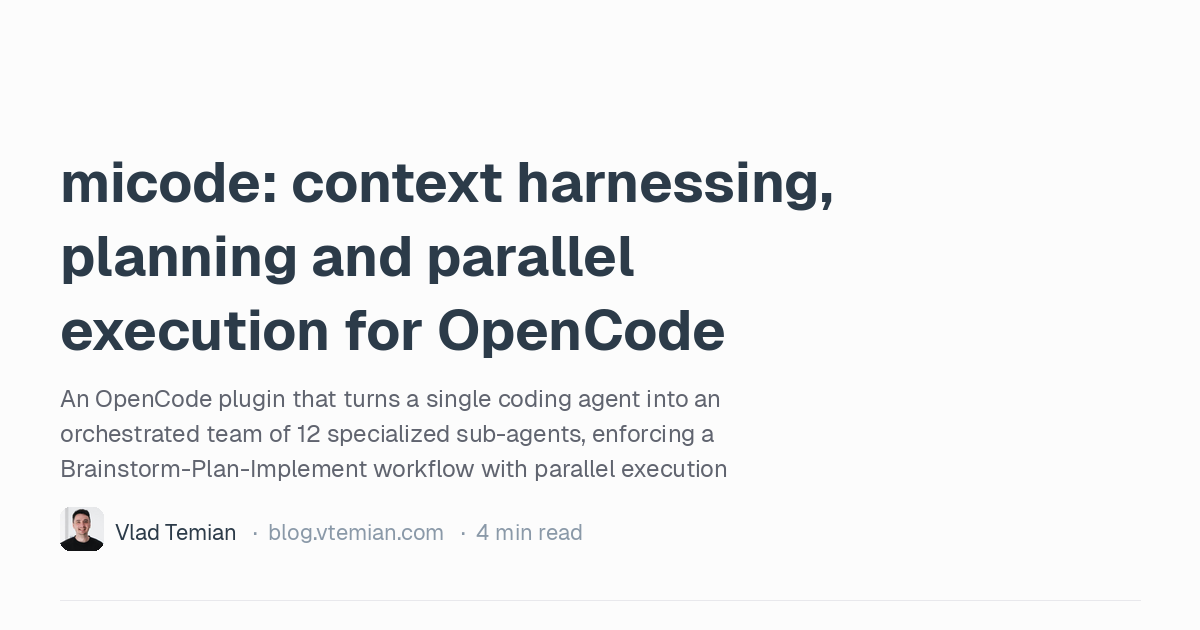
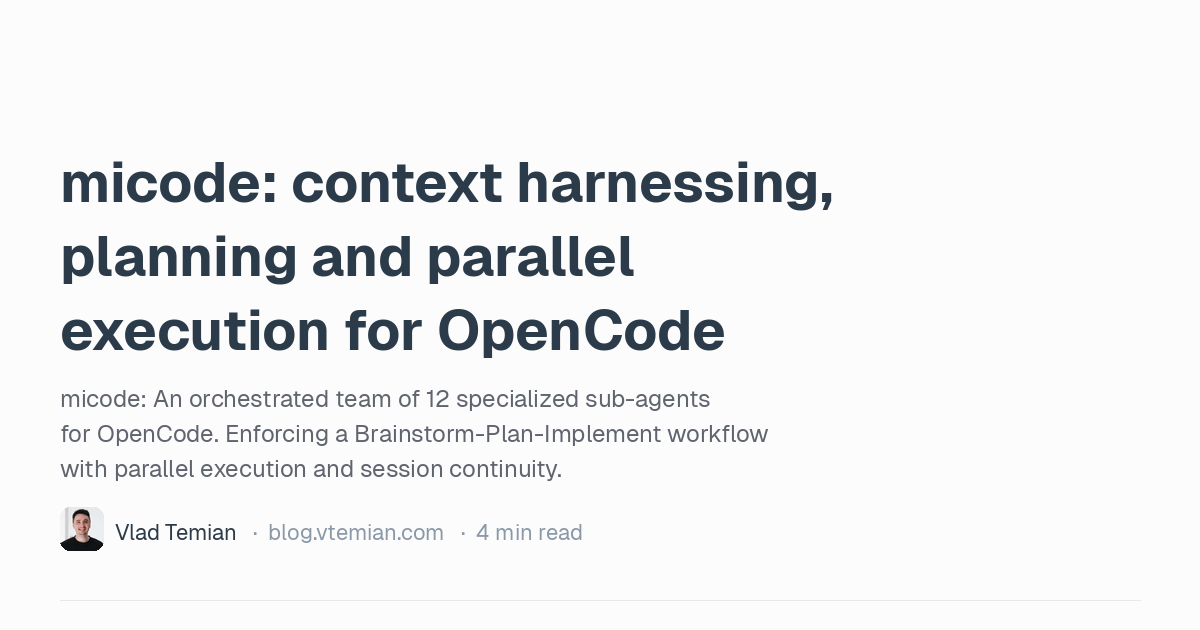
deploy: b8b58021b95f04f14dc3bfe127204afca52f9d11

Changed region(s): [[0.0308, 0.6032, 0.6475, 0.754]]

diff --git a/project/micode/index.html b/project/micode/index.html
@@ -1,6 +1,6 @@
-<!doctype html><html lang=en><head><script>localStorage.getItem("theme")==="dark"&&document.documentElement.classList.add("dark")</script><meta http-equiv=X-UA-Compatible content="IE=edge"><meta name=viewport content="width=device-width,minimum-scale=1"><link rel=preconnect href=https://cdn.jsdelivr.net crossorigin><link rel=stylesheet href=https://cdn.jsdelivr.net/npm/geist@1/dist/fonts/geist-sans/style.css><link rel=stylesheet href=https://cdn.jsdelivr.net/npm/geist@1/dist/fonts/geist-mono/style.css><link rel=stylesheet href=//cdnjs.cloudflare.com/ajax/libs/highlight.js/11.9.0/styles/nord.min.css><script src=//cdnjs.cloudflare.com/ajax/libs/highlight.js/11.9.0/highlight.min.js></script><script>hljs.highlightAll()</script><meta charset=utf-8><meta name=robots content="index,follow"><link rel=canonical href=https://blog.vtemian.com/project/micode/><link rel=icon type=image/svg+xml href=https://blog.vtemian.com/favicon.svg><link rel=apple-touch-icon href=https://blog.vtemian.com/favicon.svg><meta name=keywords content="micode,opencode,agentic programming,ai tools,developer tools,structured workflows,tdd"><meta name=description content="An OpenCode plugin that turns a single coding agent into an orchestrated team of 12 specialized sub-agents, enforcing a Brainstorm-Plan-Implement workflow with parallel execution and session continuity."><meta property="og:url" content="https://blog.vtemian.com/project/micode/"><meta property="og:site_name" content="Vlad Temian - Centrist Tech Optimist"><meta property="og:title" content="micode: context harnessing, planning and parallel execution for OpenCode"><meta property="og:description" content="An OpenCode plugin that turns a single coding agent into an orchestrated team of 12 specialized sub-agents, enforcing a Brainstorm-Plan-Implement workflow with parallel execution and session continuity."><meta property="og:locale" content="en_US"><meta property="og:type" content="article"><meta property="article:published_time" content="2025-12-20T00:00:00+03:00"><meta property="article:modified_time" content="2025-12-20T00:00:00+03:00"><meta property="article:tag" content="Ai"><meta property="article:tag" content="Tools"><meta property="article:tag" content="Open-Source"><meta property="og:image" content="https://blog.vtemian.com/project/micode/og.png"><meta name=twitter:card content="summary_large_image"><meta name=twitter:title content="micode: context harnessing, planning and parallel execution for OpenCode"><meta name=twitter:description content="An OpenCode plugin that turns a single coding agent into an orchestrated team of 12 specialized sub-agents, enforcing a Brainstorm-Plan-Implement workflow with parallel execution and session continuity."><meta name=twitter:image content="https://blog.vtemian.com/project/micode/og.png"><script type=application/ld+json>{"@context":"https://schema.org","@type":"BlogPosting","mainEntityOfPage":{"@type":"WebPage","@id":"https:\/\/blog.vtemian.com\/project\/micode\/"},"headline":"micode: context harnessing, planning and parallel execution for OpenCode","description":"An OpenCode plugin that turns a single coding agent into an orchestrated team of 12 specialized sub-agents, enforcing a Brainstorm-Plan-Implement workflow with parallel execution and session continuity.","inLanguage":"en-US","author":{"@type":"Person","name":"Vlad Temian","url":"https:\/\/blog.vtemian.com\/","sameAs":["https://github.com/vtemian","https://linkedin.com/in/vtemian","https://x.com/vtemian"]},"publisher":{"@type":"Person","name":"Vlad Temian"},"datePublished":"2025-12-20T00:00:00\u002b03:00","dateModified":"2025-12-20T00:00:00\u002b03:00","url":"https:\/\/blog.vtemian.com\/project\/micode\/","wordCount":561,"timeRequired":"PT3M","keywords":["ai","tools","open-source"]}</script><script type=application/ld+json>{"@context":"https://schema.org","@type":"BreadcrumbList","itemListElement":[{"@type":"ListItem","position":1,"name":"Home","item":"https:\/\/blog.vtemian.com\/"},{"@type":"ListItem","position":2,"name":"Project","item":"https:\/\/blog.vtemian.com\/project/"},{"@type":"ListItem","position":3,"name":"micode: context harnessing, planning and parallel execution for OpenCode","item":"https:\/\/blog.vtemian.com\/project\/micode\/"}]}</script><title>micode: context harnessing, planning and parallel execution for OpenCode | Vlad Temian - Centrist Tech Optimist</title>
+<!doctype html><html lang=en><head><script>localStorage.getItem("theme")==="dark"&&document.documentElement.classList.add("dark")</script><meta http-equiv=X-UA-Compatible content="IE=edge"><meta name=viewport content="width=device-width,minimum-scale=1"><link rel=preconnect href=https://cdn.jsdelivr.net crossorigin><link rel=stylesheet href=https://cdn.jsdelivr.net/npm/geist@1/dist/fonts/geist-sans/style.css><link rel=stylesheet href=https://cdn.jsdelivr.net/npm/geist@1/dist/fonts/geist-mono/style.css><link rel=stylesheet href=//cdnjs.cloudflare.com/ajax/libs/highlight.js/11.9.0/styles/nord.min.css><script src=//cdnjs.cloudflare.com/ajax/libs/highlight.js/11.9.0/highlight.min.js></script><script>hljs.highlightAll()</script><meta charset=utf-8><meta name=robots content="index,follow"><link rel=canonical href=https://blog.vtemian.com/project/micode/><link rel=icon type=image/svg+xml href=https://blog.vtemian.com/favicon.svg><link rel=apple-touch-icon href=https://blog.vtemian.com/favicon.svg><meta name=keywords content="micode,opencode,agentic programming,ai coding workflow,multi-agent orchestration,tdd with ai,llm memory,developer tools,structured coding agents"><meta name=description content="micode: An orchestrated team of 12 specialized sub-agents for OpenCode. Enforcing a Brainstorm-Plan-Implement workflow with parallel execution and session continuity."><meta property="og:url" content="https://blog.vtemian.com/project/micode/"><meta property="og:site_name" content="Vlad Temian - Centrist Tech Optimist"><meta property="og:title" content="micode: context harnessing, planning and parallel execution for OpenCode"><meta property="og:description" content="micode: An orchestrated team of 12 specialized sub-agents for OpenCode. Enforcing a Brainstorm-Plan-Implement workflow with parallel execution and session continuity."><meta property="og:locale" content="en_US"><meta property="og:type" content="article"><meta property="article:published_time" content="2025-12-20T00:00:00+03:00"><meta property="article:modified_time" content="2025-12-20T00:00:00+03:00"><meta property="article:tag" content="Ai"><meta property="article:tag" content="Tools"><meta property="article:tag" content="Open-Source"><meta property="article:tag" content="Agentic-Programming"><meta property="article:tag" content="Workflow"><meta property="og:image" content="https://blog.vtemian.com/project/micode/og.png"><meta name=twitter:card content="summary_large_image"><meta name=twitter:title content="micode: context harnessing, planning and parallel execution for OpenCode"><meta name=twitter:description content="micode: An orchestrated team of 12 specialized sub-agents for OpenCode. Enforcing a Brainstorm-Plan-Implement workflow with parallel execution and session continuity."><meta name=twitter:image content="https://blog.vtemian.com/project/micode/og.png"><script type=application/ld+json>{"@context":"https://schema.org","@type":"BlogPosting","mainEntityOfPage":{"@type":"WebPage","@id":"https:\/\/blog.vtemian.com\/project\/micode\/"},"headline":"micode: context harnessing, planning and parallel execution for OpenCode","description":"micode: An orchestrated team of 12 specialized sub-agents for OpenCode. Enforcing a Brainstorm-Plan-Implement workflow with parallel execution and session continuity.","inLanguage":"en-US","author":{"@type":"Person","name":"Vlad Temian","url":"https:\/\/blog.vtemian.com\/","sameAs":["https://github.com/vtemian","https://linkedin.com/in/vtemian","https://x.com/vtemian"]},"publisher":{"@type":"Person","name":"Vlad Temian"},"datePublished":"2025-12-20T00:00:00\u002b03:00","dateModified":"2025-12-20T00:00:00\u002b03:00","url":"https:\/\/blog.vtemian.com\/project\/micode\/","wordCount":574,"timeRequired":"PT3M","keywords":["ai","tools","open-source","agentic-programming","workflow"]}</script><script type=application/ld+json>{"@context":"https://schema.org","@type":"BreadcrumbList","itemListElement":[{"@type":"ListItem","position":1,"name":"Home","item":"https:\/\/blog.vtemian.com\/"},{"@type":"ListItem","position":2,"name":"Project","item":"https:\/\/blog.vtemian.com\/project/"},{"@type":"ListItem","position":3,"name":"micode: context harnessing, planning and parallel execution for OpenCode","item":"https:\/\/blog.vtemian.com\/project\/micode\/"}]}</script><title>micode: context harnessing, planning and parallel execution for OpenCode | Vlad Temian - Centrist Tech Optimist</title>
 <link rel=stylesheet href=https://blog.vtemian.com/stylesheets/main.min.a3dd6e53cb8317669f7120e254ee74bc7ddd98748ed802cc4adc882876a27160.css media=screen><meta name=google-site-verification content="2qk_e0y84NNSVpaorKgeNURYF9Ni3UyJvPq9GZdGEgs"></head><body class="bg-bg font-sans text-sm leading-relaxed text-ink antialiased"><div class="mx-auto flex max-w-2xl flex-col gap-12 px-5 py-12"><a href=https://blog.vtemian.com/ class="font-mono text-xs tracking-wide text-muted">Back</a><article class="flex flex-col gap-12"><header class="flex flex-col gap-2"><h1 class=text-2xl>micode: context harnessing, planning and parallel execution for OpenCode</h1><p class="text-xs text-link">December 2025</p></header><div class="flex flex-col gap-4"><video autoplay loop muted playsinline width=100% style=margin-bottom:2rem>
-<source src=demo.mp4 type=video/mp4></video><p>You describe a feature, the agent starts writing code, and for a while it feels like magic. Then context drifts. The agent forgets what it read three tool calls ago. It re-invents a utility that already exists in the codebase. It solves the wrong problem because nobody stopped to ask whether the approach was right.</p><p>The issue isn&rsquo;t that AI coding tools are bad. The issue is that they have no memory and no discipline.</p><p><strong><a href=https://github.com/vtemian/micode>micode</a></strong> is an <a href=https://opencode.ai>OpenCode</a> plugin that fixes both.</p><h2 id=context-is-everything>Context is Everything</h2><p>The fundamental problem with AI coding assistants is context loss. Within a session, the agent&rsquo;s understanding degrades as the context window fills up. Between sessions, everything is gone. You come back tomorrow and the agent has no idea what happened yesterday, what decisions were made, or why the architecture looks the way it does.</p><p>micode attacks this from multiple angles:</p><ul><li><strong>Ledger system</strong>: Running <code>/ledger</code> creates structured <code>CONTINUITY_{session}.md</code> files that capture decisions, progress, and open questions. On the next session, a hook automatically injects this context. <code>/search</code> lets you query past plans, designs, and ledgers.</li><li><strong>Auto-Compact</strong>: At 50% context usage, micode automatically summarizes the conversation to prevent context overflow while preserving the important bits.</li><li><strong>Context Injector</strong>: Automatically injects your <code>ARCHITECTURE.md</code> and <code>CODE_STYLE.md</code> into every agent&rsquo;s system prompt. The agent always knows your project&rsquo;s conventions.</li><li><strong>Artifact indexing</strong>: Every design document, plan, and ledger is automatically indexed and searchable across sessions.</li></ul><h2 id=no-code-before-a-plan>No Code Before a Plan</h2><p>The core discipline: don&rsquo;t let the agent write code until you&rsquo;ve agreed on what to build.</p><ol><li><p><strong>Brainstorm</strong> fires parallel research sub-agents to explore the codebase, ask questions, consider alternatives, and produce a written design document. Not a plan yet. A design. The &ldquo;what&rdquo; and &ldquo;why&rdquo; before the &ldquo;how&rdquo;.</p></li><li><p><strong>Plan</strong> transforms that design into bite-sized tasks (2-5 minutes each) with exact file paths, code examples, and test-first workflow. You review and approve before anything moves forward.</p></li><li><p><strong>Implement</strong> executes in an isolated git worktree. Implementer-reviewer pairs run in parallel, 10-20 concurrent micro-tasks at a time. Each task follows TDD: write the test, watch it fail, write the code, watch it pass.</p></li></ol><p>Human approval gates exist between each phase. The agent doesn&rsquo;t get to skip ahead.</p><h2 id=specialized-agents-not-one-agent-doing-everything>Specialized Agents, Not One Agent Doing Everything</h2><p>micode decomposes work across 12 agents, each with its own system prompt, model configuration, and tools. The Brainstormer explores differently than the Implementer. The Codebase Locator has different capabilities than the Planner. The Reviewer checks work with different criteria than the one who wrote it.</p><p>This matters because a single agent context-switching between research, planning, coding, and reviewing produces worse results than specialized agents that each do one thing well.</p><h2 id=why-structure-matters>Why Structure Matters</h2><p>The philosophy is deliberately opinionated:</p><ol><li>Understand the codebase before proposing changes</li><li>Brainstorm before planning, plan before coding</li><li>Every decision needs human buy-in</li><li>Parallel investigation, not serial guessing</li><li>Isolated implementation via git worktrees</li><li>Every task gets both an implementer AND a reviewer</li><li>Context persists across sessions, always</li></ol><p>The bet is simple: constraining the AI into a disciplined workflow produces better results than letting it freestyle. Planning over guessing. Memory over amnesia.</p><p><strong><a href=https://github.com/vtemian/micode>Source on GitHub</a></strong></p><p>If you prefer brainstorming in a browser UI instead of the terminal, <a href=https://blog.vtemian.com/project/octto/>octto</a> adds a visual layer with 14 input types and parallel exploration branches. And if you want to share your agent sessions with colleagues, <a href=https://blog.vtemian.com/project/claudebin/>claudebin</a> turns them into permanent, embeddable URLs.</p><p>Stay curious ☕</p></div></article><footer class="flex justify-between text-xs text-link"><span>&copy; 2026 <a href=https://github.com/vtemian>Vlad Temian</a></span>
+<source src=demo.mp4 type=video/mp4></video><p>I built <strong>micode</strong> because I got tired of &ldquo;magic&rdquo; turning into &ldquo;amnesia.&rdquo; You describe a feature, the agent starts writing code, and for a while it feels like a superpower. Then context drifts. The agent forgets a decision made three tool calls ago, or it re-invents a utility that already exists in the codebase.</p><p>The issue isn&rsquo;t that AI coding tools are bad. The issue is that they have no memory and no discipline. <strong><a href=https://github.com/vtemian/micode>micode</a></strong> is an <a href=https://opencode.ai>OpenCode</a> plugin that enforces both.</p><h2 id=the-memory-problem-continuity-over-context>The &ldquo;Memory&rdquo; Problem: Continuity over Context</h2><p>The fundamental problem with AI assistants is context loss. Within a session, understanding degrades as the window fills up. Between sessions, everything is gone. I spent too many mornings &ldquo;re-explaining&rdquo; the project to an agent that I had spent all of yesterday with.</p><p>micode solves this via <strong>Continuity Ledgers</strong>:</p><ul><li><strong>Structured memory</strong>: Running <code>/ledger</code> creates <code>CONTINUITY_{session}.md</code> files that capture architectural decisions, progress, and open questions.</li><li><strong>Auto-Injection</strong>: On the next session, a hook automatically injects the latest ledger. The agent &ldquo;wakes up&rdquo; exactly where it left off.</li><li><strong>Context Guard</strong>: It automatically injects your <code>ARCHITECTURE.md</code> and <code>CODE_STYLE.md</code> into every sub-agent&rsquo;s system prompt. No more hallucinations about which library to use.</li></ul><h2 id=the-golden-workflow-no-code-before-a-plan>The Golden Workflow: No Code Before a Plan</h2><p>AI agents are &ldquo;lazy&rdquo; by nature—they want to skip straight to implementation. micode enforces a mandatory 3-stage lifecycle that I&rsquo;ve found to be the only way to get reliable results on complex features:</p><h3 id=1-brainstorm-the-what-and-why>1. <strong>Brainstorm</strong> (The &ldquo;What&rdquo; and &ldquo;Why&rdquo;)</h3><p>Parallel research sub-agents explore the codebase, ask clarifying questions, and consider multiple architectures. The output is a <strong>Design Document</strong>, not a plan. We agree on the approach before we discuss the implementation.</p><h3 id=2-plan-the-how>2. <strong>Plan</strong> (The &ldquo;How&rdquo;)</h3><p>A specialized Planner agent transforms the design into bite-sized, deterministic tasks (2-5 minutes each) with exact file paths and test-first expectations. You review and approve this blueprint before a single line of code is written.</p><h3 id=3-implement-the-execution>3. <strong>Implement</strong> (The Execution)</h3><p>This is where the magic happens. micode spawns <strong>Implementer-Reviewer pairs</strong> in parallel—sometimes 10-20 concurrent micro-tasks at a time—using isolated git worktrees. Each pair follows a strict TDD loop: write the test, watch it fail, write the code, watch it pass.</p><p>Human approval gates exist between each phase. The agent doesn&rsquo;t get to freestyle; it follows the blueprint.</p><p>&mldr;</p><h2 id=specialized-agents-not-one-agent-doing-everything>Specialized Agents, Not One Agent Doing Everything</h2><p>micode decomposes work across 12 agents, each with its own system prompt, model configuration, and tools. The Brainstormer explores differently than the Implementer. The Codebase Locator has different capabilities than the Planner. The Reviewer checks work with different criteria than the one who wrote it.</p><p>This matters because a single agent context-switching between research, planning, coding, and reviewing produces worse results than specialized agents that each do one thing well.</p><h2 id=why-structure-matters>Why Structure Matters</h2><p>The philosophy is deliberately opinionated:</p><ol><li>Understand the codebase before proposing changes</li><li>Brainstorm before planning, plan before coding</li><li>Every decision needs human buy-in</li><li>Parallel investigation, not serial guessing</li><li>Isolated implementation via git worktrees</li><li>Every task gets both an implementer AND a reviewer</li><li>Context persists across sessions, always</li></ol><p>The bet is simple: constraining the AI into a disciplined workflow produces better results than letting it freestyle. Planning over guessing. Memory over amnesia.</p><p><strong><a href=https://github.com/vtemian/micode>Source on GitHub</a></strong></p><p>If you prefer brainstorming in a browser UI instead of the terminal, <a href=https://blog.vtemian.com/project/octto/>octto</a> adds a visual layer with 14 input types and parallel exploration branches. And if you want to share your agent sessions with colleagues, <a href=https://blog.vtemian.com/project/claudebin/>claudebin</a> turns them into permanent, embeddable URLs.</p><p>Stay curious ☕</p></div></article><footer class="flex justify-between text-xs text-link"><span>&copy; 2026 <a href=https://github.com/vtemian>Vlad Temian</a></span>
 <span>Order within chaos.</span></footer></div><script type=module>
     import mermaid from 'https://cdn.jsdelivr.net/npm/mermaid@11/dist/mermaid.esm.min.mjs';
     mermaid.initialize({ startOnLoad: false, theme: 'neutral' });

diff --git a/tags/workflow/index.html b/tags/workflow/index.html
@@ -1,0 +1,25 @@
+<!doctype html><html lang=en><head><script>localStorage.getItem("theme")==="dark"&&document.documentElement.classList.add("dark")</script><meta http-equiv=X-UA-Compatible content="IE=edge"><meta name=viewport content="width=device-width,minimum-scale=1"><link rel=preconnect href=https://cdn.jsdelivr.net crossorigin><link rel=stylesheet href=https://cdn.jsdelivr.net/npm/geist@1/dist/fonts/geist-sans/style.css><link rel=stylesheet href=https://cdn.jsdelivr.net/npm/geist@1/dist/fonts/geist-mono/style.css><link rel=stylesheet href=//cdnjs.cloudflare.com/ajax/libs/highlight.js/11.9.0/styles/nord.min.css><script src=//cdnjs.cloudflare.com/ajax/libs/highlight.js/11.9.0/highlight.min.js></script><script>hljs.highlightAll()</script><meta charset=utf-8><meta name=robots content="index,follow"><link rel=canonical href=https://blog.vtemian.com/tags/workflow/><link rel=icon type=image/svg+xml href=https://blog.vtemian.com/favicon.svg><link rel=apple-touch-icon href=https://blog.vtemian.com/favicon.svg><meta name=keywords content="vtemian,agentic programming,ai tools,claude code,developer tools,open source"><meta name=description content="I build agentic programming tools. 15+ years of systems infrastructure experience, now focused on making AI agents reliable and accessible for developers. Former CTO, open-source builder, community organizer at agentic.tm."><meta property="og:url" content="https://blog.vtemian.com/tags/workflow/"><meta property="og:site_name" content="Vlad Temian - Centrist Tech Optimist"><meta property="og:title" content="Workflow"><meta property="og:description" content="I build agentic programming tools. 15+ years of systems infrastructure experience, now focused on making AI agents reliable and accessible for developers. Former CTO, open-source builder, community organizer at agentic.tm."><meta property="og:locale" content="en_US"><meta property="og:type" content="website"><meta name=twitter:card content="summary_large_image"><meta name=twitter:title content="Workflow"><meta name=twitter:description content="I build agentic programming tools. 15+ years of systems infrastructure experience, now focused on making AI agents reliable and accessible for developers. Former CTO, open-source builder, community organizer at agentic.tm."><script type=application/ld+json>{"@context":"https://schema.org","@type":"BlogPosting","mainEntityOfPage":{"@type":"WebPage","@id":"https:\/\/blog.vtemian.com\/tags\/workflow\/"},"headline":"Workflow","description":"I build agentic programming tools. 15\u002b years of systems infrastructure experience, now focused on making AI agents reliable and accessible for developers. Former CTO, open-source builder, community organizer at agentic.tm.","inLanguage":"en-US","author":{"@type":"Person","name":"Vlad Temian","url":"https:\/\/blog.vtemian.com\/","sameAs":["https://github.com/vtemian","https://linkedin.com/in/vtemian","https://x.com/vtemian"]},"publisher":{"@type":"Person","name":"Vlad Temian"},"datePublished":"2025-12-20T00:00:00\u002b03:00","dateModified":"2025-12-20T00:00:00\u002b03:00","url":"https:\/\/blog.vtemian.com\/tags\/workflow\/","wordCount":0,"timeRequired":"PT1M","keywords":[]}</script><script type=application/ld+json>{"@context":"https://schema.org","@type":"BreadcrumbList","itemListElement":[{"@type":"ListItem","position":1,"name":"Home","item":"https:\/\/blog.vtemian.com\/"}]}</script><title>Workflow | Vlad Temian - Centrist Tech Optimist</title>
+<link rel=stylesheet href=https://blog.vtemian.com/stylesheets/main.min.a3dd6e53cb8317669f7120e254ee74bc7ddd98748ed802cc4adc882876a27160.css media=screen><meta name=google-site-verification content="2qk_e0y84NNSVpaorKgeNURYF9Ni3UyJvPq9GZdGEgs"></head><body class="bg-bg font-sans text-sm leading-relaxed text-ink antialiased"><div class="mx-auto flex max-w-xl flex-col gap-12 px-5 py-12"><svg width="0" height="0" class="absolute"><defs><clipPath id="squircle" clipPathUnits="objectBoundingBox"><path d="M0 .5C-.001.14.14.0.5.0s.501.14.5.5C1.001.86.86 1 .5 1S-.001.86.0.5z"/></clipPath></defs></svg><section class="flex items-center gap-4"><img src=https://qed.builders/images/team/vlad-temian@2x.png alt="Vlad Temian" class="h-14 w-14" style=clip-path:url(#squircle)><div class=flex-1><p>Vlad Temian</p><p>Centrist Tech Optimist</p></div><button id=theme-toggle aria-label="Toggle dark mode" class="relative flex h-8 w-8 cursor-pointer items-center justify-center text-muted transition-colors duration-200 hover:text-ink">
+<svg id="icon-sun" class="absolute h-5 w-5 transition-all duration-300 ease-out" viewBox="0 0 24 24" fill="none" stroke="currentcolor" stroke-width="1.5" stroke-linecap="round" stroke-linejoin="round"><circle cx="12" cy="12" r="5"/><line x1="12" y1="1" x2="12" y2="3"/><line x1="12" y1="21" x2="12" y2="23"/><line x1="4.22" y1="4.22" x2="5.64" y2="5.64"/><line x1="18.36" y1="18.36" x2="19.78" y2="19.78"/><line x1="1" y1="12" x2="3" y2="12"/><line x1="21" y1="12" x2="23" y2="12"/><line x1="4.22" y1="19.78" x2="5.64" y2="18.36"/><line x1="18.36" y1="5.64" x2="19.78" y2="4.22"/></svg>
+<svg id="icon-moon" class="absolute h-5 w-5 transition-all duration-300 ease-out" viewBox="0 0 24 24" fill="none" stroke="currentcolor" stroke-width="1.5" stroke-linecap="round" stroke-linejoin="round"><path d="M21 12.79A9 9 0 1111.21 3 7 7 0 0021 12.79z"/></svg>
+</button>
+<script>(()=>{const s=document.getElementById("theme-toggle"),e=document.getElementById("icon-sun"),t=document.getElementById("icon-moon"),n=n=>{e.style.opacity=n?"1":"0",e.style.transform=n?"rotate(0deg)":"rotate(-90deg)",t.style.opacity=n?"0":"1",t.style.transform=n?"rotate(90deg)":"rotate(0deg)"};n(document.documentElement.classList.contains("dark")),s.addEventListener("click",()=>{const e=document.documentElement.classList.toggle("dark");localStorage.setItem("theme",e?"dark":"light"),n(e)})})()</script></section><section><h2 class="mb-4 font-mono text-xs tracking-wide text-muted">About</h2><p>I build agentic programming tools.</p><br><p>15+ years helping startups scale production infrastructure.</p><p>Former CTO of <a href=https://www.linkedin.com/company/qed-builders-software/ target=_blank rel="noopener noreferrer" class="border-b border-b-link-border pb-0.5 text-link transition-all duration-200 ease-out hover:border-b-ink hover:text-ink">qed.builders</a> (acquired by <a href=https://www.linkedin.com/company/thesandbox-game/ target=_blank rel="noopener noreferrer" class="border-b border-b-link-border pb-0.5 text-link transition-all duration-200 ease-out hover:border-b-ink hover:text-ink">The Sandbox</a>). Organizer at <a href=https://agentic.tm target=_blank rel="noopener noreferrer" class="border-b border-b-link-border pb-0.5 text-link transition-all duration-200 ease-out hover:border-b-ink hover:text-ink">agentic.tm</a>. <a href=https://cursor.com target=_blank rel="noopener noreferrer" class="border-b border-b-link-border pb-0.5 text-link transition-all duration-200 ease-out hover:border-b-ink hover:text-ink">Cursor</a> ambassador.</p><br><p>I believe everyone should be able to ship ideas.</p></section><section><h2 class="mb-4 font-mono text-xs tracking-wide text-muted">Writing</h2><div class="relative flex flex-col gap-1" id=writing-list><div id=writing-highlight class="pointer-events-none absolute rounded-lg bg-surface opacity-0 transition-all duration-150"></div><a href=https://blog.vtemian.com/post/mcp-is-great-for-tools-terrible-for-agents/ class="relative -mx-3 flex items-center justify-between gap-4 rounded-lg px-3 py-2 transition-colors duration-150"><div class=min-w-0><h3 class=truncate>MCP Is Great for Tools. Terrible for Agents.</h3><p class="text-xs text-link">February 2026</p></div><span class="shrink-0 rounded border border-border px-2 py-0.5 text-xs capitalize text-muted">post</span>
+</a><a href=https://blog.vtemian.com/post/vibe-infer/ class="relative -mx-3 flex items-center justify-between gap-4 rounded-lg px-3 py-2 transition-colors duration-150"><div class=min-w-0><h3 class=truncate>vibe-infer: Learning GPU Programming with Claude Code</h3><p class="text-xs text-link">February 2026</p></div><span class="shrink-0 rounded border border-border px-2 py-0.5 text-xs capitalize text-muted">post</span>
+</a><a href=https://blog.vtemian.com/project/claudebin/ class="relative -mx-3 flex items-center justify-between gap-4 rounded-lg px-3 py-2 transition-colors duration-150"><div class=min-w-0><h3 class=truncate>claudebin: share and embed Claude Code sessions</h3><p class="text-xs text-link">February 2026</p></div><span class="shrink-0 rounded border border-border px-2 py-0.5 text-xs capitalize text-muted">project</span>
+</a><a href=https://blog.vtemian.com/talk/indie-hacking-update/ class="relative -mx-3 flex items-center justify-between gap-4 rounded-lg px-3 py-2 transition-colors duration-150"><div class=min-w-0><h3 class=truncate>Riding Existing Waves: My Indie Hacking Journey with Sisif.ai</h3><p class="text-xs text-link">January 2026</p></div><span class="shrink-0 rounded border border-border px-2 py-0.5 text-xs capitalize text-muted">talk</span>
+</a><a href=https://blog.vtemian.com/project/opencode-reskin/ class="relative -mx-3 flex items-center justify-between gap-4 rounded-lg px-3 py-2 transition-colors duration-150"><div class=min-w-0><h3 class=truncate>opencode-reskin: multi-agent CSS analysis for OpenCode</h3><p class="text-xs text-link">January 2026</p></div><span class="shrink-0 rounded border border-border px-2 py-0.5 text-xs capitalize text-muted">project</span>
+</a><a href=https://blog.vtemian.com/project/octto/ class="relative -mx-3 flex items-center justify-between gap-4 rounded-lg px-3 py-2 transition-colors duration-150"><div class=min-w-0><h3 class=truncate>octto: browser UI for brainstorming with OpenCode agents</h3><p class="text-xs text-link">January 2026</p></div><span class="shrink-0 rounded border border-border px-2 py-0.5 text-xs capitalize text-muted">project</span>
+</a><a href=https://blog.vtemian.com/project/micode/ class="relative -mx-3 flex items-center justify-between gap-4 rounded-lg px-3 py-2 transition-colors duration-150"><div class=min-w-0><h3 class=truncate>micode: context harnessing, planning and parallel execution for OpenCode</h3><p class="text-xs text-link">December 2025</p></div><span class="shrink-0 rounded border border-border px-2 py-0.5 text-xs capitalize text-muted">project</span>
+</a><a href=https://blog.vtemian.com/talk/technical-debt-is-cheap/ class="relative -mx-3 flex items-center justify-between gap-4 rounded-lg px-3 py-2 transition-colors duration-150"><div class=min-w-0><h3 class=truncate>Technical Debt is Cheap</h3><p class="text-xs text-link">October 2025</p></div><span class="shrink-0 rounded border border-border px-2 py-0.5 text-xs capitalize text-muted">talk</span>
+</a><a href=https://blog.vtemian.com/project/claude-notes/ class="relative -mx-3 flex items-center justify-between gap-4 rounded-lg px-3 py-2 transition-colors duration-150"><div class=min-w-0><h3 class=truncate>claude-notes: claude code sessions to html</h3><p class="text-xs text-link">June 2025</p></div><span class="shrink-0 rounded border border-border px-2 py-0.5 text-xs capitalize text-muted">project</span>
+</a><a href=https://blog.vtemian.com/post/parallel-transaction-execution-in-blockchains/ class="relative -mx-3 flex items-center justify-between gap-4 rounded-lg px-3 py-2 transition-colors duration-150"><div class=min-w-0><h3 class=truncate>Parallel Transaction Execution in Blockchains</h3><p class="text-xs text-link">October 2024</p></div><span class="shrink-0 rounded border border-border px-2 py-0.5 text-xs capitalize text-muted">post</span>
+</a><a href=https://blog.vtemian.com/post/healthy-python-codebase/ class="relative -mx-3 flex items-center justify-between gap-4 rounded-lg px-3 py-2 transition-colors duration-150"><div class=min-w-0><h3 class=truncate>Healthy Python Codebase</h3><p class="text-xs text-link">September 2020</p></div><span class="shrink-0 rounded border border-border px-2 py-0.5 text-xs capitalize text-muted">post</span>
+</a><a href=https://blog.vtemian.com/post/serverless-hosting-platform/ class="relative -mx-3 flex items-center justify-between gap-4 rounded-lg px-3 py-2 transition-colors duration-150"><div class=min-w-0><h3 class=truncate>Building a serverless hosting platform</h3><p class="text-xs text-link">May 2020</p></div><span class="shrink-0 rounded border border-border px-2 py-0.5 text-xs capitalize text-muted">post</span>
+</a><a href=https://blog.vtemian.com/post/multiple-inheritance/ class="relative -mx-3 flex items-center justify-between gap-4 rounded-lg px-3 py-2 transition-colors duration-150"><div class=min-w-0><h3 class=truncate>Python Multiple Inheritance</h3><p class="text-xs text-link">May 2020</p></div><span class="shrink-0 rounded border border-border px-2 py-0.5 text-xs capitalize text-muted">post</span>
+</a><a href=https://blog.vtemian.com/post/interviews/ class="relative -mx-3 flex items-center justify-between gap-4 rounded-lg px-3 py-2 transition-colors duration-150"><div class=min-w-0><h3 class=truncate>Interviews</h3><p class="text-xs text-link">January 2019</p></div><span class="shrink-0 rounded border border-border px-2 py-0.5 text-xs capitalize text-muted">post</span>
+</a><a href=https://blog.vtemian.com/post/2019/ class="relative -mx-3 flex items-center justify-between gap-4 rounded-lg px-3 py-2 transition-colors duration-150"><div class=min-w-0><h3 class=truncate>2019</h3><p class="text-xs text-link">January 2019</p></div><span class="shrink-0 rounded border border-border px-2 py-0.5 text-xs capitalize text-muted">post</span></a></div><script>(()=>{const t=document.getElementById("writing-list"),e=document.getElementById("writing-highlight"),n=n=>{const{top:o,left:i,width:a,height:r}=n.getBoundingClientRect(),s=t.getBoundingClientRect();Object.assign(e.style,{top:`${o-s.top}px`,left:`${i-s.left}px`,width:`${a}px`,height:`${r}px`}),e.classList.remove("opacity-0"),e.classList.add("opacity-100")},s=()=>{e.classList.remove("opacity-100"),e.classList.add("opacity-0")};t.querySelectorAll("a").forEach(e=>{e.addEventListener("mouseenter",()=>n(e))}),t.addEventListener("mouseleave",s)})()</script></section><section><h2 class="mb-4 font-mono text-xs tracking-wide text-muted">Contact</h2><div class="flex flex-col gap-2"><div class="grid grid-cols-12 gap-2"><span class="col-span-4 text-muted">Email</span>
+<a href=mailto:me@vtemian.com class=col-span-8>me@vtemian.com</a></div><div class="grid grid-cols-12 gap-2"><span class="col-span-4 text-muted">LinkedIn</span>
+<a href=https://www.linkedin.com/in/vtemian class=col-span-8>/in/vtemian</a></div><div class="grid grid-cols-12 gap-2"><span class="col-span-4 text-muted">GitHub</span>
+<a href=https://github.com/vtemian class=col-span-8>vtemian</a></div><div class="grid grid-cols-12 gap-2"><span class="col-span-4 text-muted">X</span>
+<a href=https://x.com/vtemian class=col-span-8>@vtemian</a></div></div></section><footer class="flex justify-between text-xs text-link"><span>&copy; 2026 <a href=https://github.com/vtemian>Vlad Temian</a></span>
+<span>Order within chaos.</span></footer></div></body></html>

diff --git a/project/micode/index.md b/project/micode/index.md
@@ -3,8 +3,8 @@ title: "micode: context harnessing, planning and parallel execution for OpenCode
 date: 2025-12-20
 author: Vlad Temian
 url: https://blog.vtemian.com/project/micode/
-description: "An OpenCode plugin that turns a single coding agent into an orchestrated team of 12 specialized sub-agents, enforcing a Brainstorm-Plan-Implement workflow with parallel execution and session continuity."
-tags: [ai, tools, open-source]
+description: "micode: An orchestrated team of 12 specialized sub-agents for OpenCode. Enforcing a Brainstorm-Plan-Implement workflow with parallel execution and session continuity."
+tags: [ai, tools, open-source, agentic-programming, workflow]
 ---
 
 # micode: context harnessing, planning and parallel execution for OpenCode
@@ -14,35 +14,35 @@ tags: [ai, tools, open-source]
   <source src="demo.mp4" type="video/mp4">
 </video>
 
-You describe a feature, the agent starts writing code, and for a while it feels like magic. Then context drifts. The agent forgets what it read three tool calls ago. It re-invents a utility that already exists in the codebase. It solves the wrong problem because nobody stopped to ask whether the approach was right.
+I built **micode** because I got tired of "magic" turning into "amnesia." You describe a feature, the agent starts writing code, and for a while it feels like a superpower. Then context drifts. The agent forgets a decision made three tool calls ago, or it re-invents a utility that already exists in the codebase. 
 
-The issue isn't that AI coding tools are bad. The issue is that they have no memory and no discipline.
+The issue isn't that AI coding tools are bad. The issue is that they have no memory and no discipline. **[micode](https://github.com/vtemian/micode)** is an [OpenCode](https://opencode.ai) plugin that enforces both.
 
-**[micode](https://github.com/vtemian/micode)** is an [OpenCode](https://opencode.ai) plugin that fixes both.
+## The "Memory" Problem: Continuity over Context
 
-## Context is Everything
+The fundamental problem with AI assistants is context loss. Within a session, understanding degrades as the window fills up. Between sessions, everything is gone. I spent too many mornings "re-explaining" the project to an agent that I had spent all of yesterday with. 
 
-The fundamental problem with AI coding assistants is context loss. Within a session, the agent's understanding degrades as the context window fills up. Between sessions, everything is gone. You come back tomorrow and the agent has no idea what happened yesterday, what decisions were made, or why the architecture looks the way it does.
+micode solves this via **Continuity Ledgers**:
+- **Structured memory**: Running `/ledger` creates `CONTINUITY_{session}.md` files that capture architectural decisions, progress, and open questions.
+- **Auto-Injection**: On the next session, a hook automatically injects the latest ledger. The agent "wakes up" exactly where it left off.
+- **Context Guard**: It automatically injects your `ARCHITECTURE.md` and `CODE_STYLE.md` into every sub-agent's system prompt. No more hallucinations about which library to use.
 
-micode attacks this from multiple angles:
+## The Golden Workflow: No Code Before a Plan
 
-- **Ledger system**: Running `/ledger` creates structured `CONTINUITY_{session}.md` files that capture decisions, progress, and open questions. On the next session, a hook automatically injects this context. `/search` lets you query past plans, designs, and ledgers.
-- **Auto-Compact**: At 50% context usage, micode automatically summarizes the conversation to prevent context overflow while preserving the important bits.
-- **Context Injector**: Automatically injects your `ARCHITECTURE.md` and `CODE_STYLE.md` into every agent's system prompt. The agent always knows your project's conventions.
-- **Artifact indexing**: Every design document, plan, and ledger is automatically indexed and searchable across sessions.
+AI agents are "lazy" by nature—they want to skip straight to implementation. micode enforces a mandatory 3-stage lifecycle that I've found to be the only way to get reliable results on complex features:
 
-## No Code Before a Plan
+### 1. **Brainstorm** (The "What" and "Why")
+Parallel research sub-agents explore the codebase, ask clarifying questions, and consider multiple architectures. The output is a **Design Document**, not a plan. We agree on the approach before we discuss the implementation.
 
-The core discipline: don't let the agent write code until you've agreed on what to build.
+### 2. **Plan** (The "How")
+A specialized Planner agent transforms the design into bite-sized, deterministic tasks (2-5 minutes each) with exact file paths and test-first expectations. You review and approve this blueprint before a single line of code is written.
 
-1. **Brainstorm** fires parallel research sub-agents to explore the codebase, ask questions, consider alternatives, and produce a written design document. Not a plan yet. A design. The "what" and "why" before the "how".
+### 3. **Implement** (The Execution)
+This is where the magic happens. micode spawns **Implementer-Reviewer pairs** in parallel—sometimes 10-20 concurrent micro-tasks at a time—using isolated git worktrees. Each pair follows a strict TDD loop: write the test, watch it fail, write the code, watch it pass.
 
-2. **Plan** transforms that design into bite-sized tasks (2-5 minutes each) with exact file paths, code examples, and test-first workflow. You review and approve before anything moves forward.
+Human approval gates exist between each phase. The agent doesn't get to freestyle; it follows the blueprint.
 
-3. **Implement** executes in an isolated git worktree. Implementer-reviewer pairs run in parallel, 10-20 concurrent micro-tasks at a time. Each task follows TDD: write the test, watch it fail, write the code, watch it pass.
-
-Human approval gates exist between each phase. The agent doesn't get to skip ahead.
-
+...
 ## Specialized Agents, Not One Agent Doing Everything
 
 micode decomposes work across 12 agents, each with its own system prompt, model configuration, and tools. The Brainstormer explores differently than the Implementer. The Codebase Locator has different capabilities than the Planner. The Reviewer checks work with different criteria than the one who wrote it.
